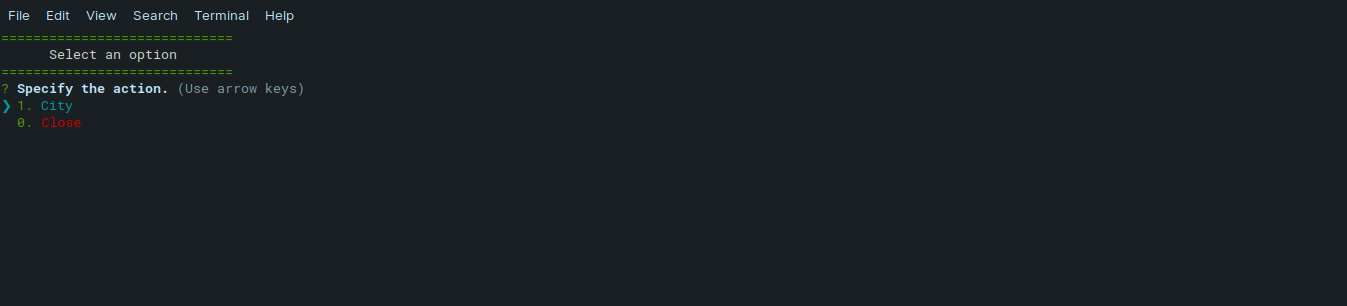
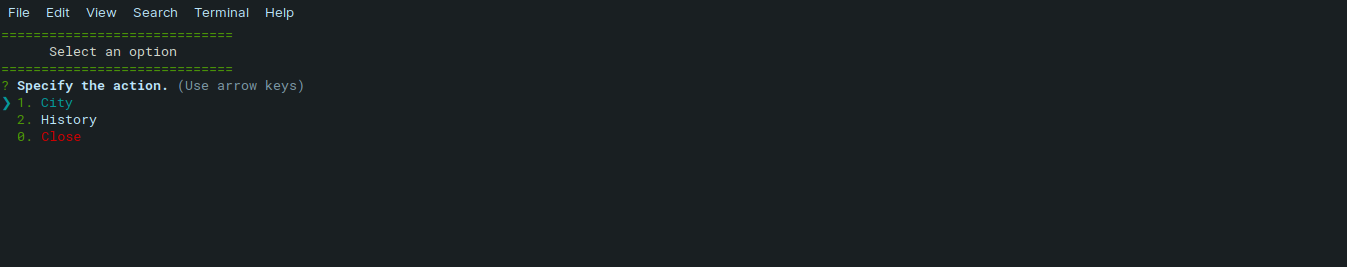
README adited

Changed region(s): [[0.0, 0.1199, 0.2183, 0.5393], [0.0, 0.03, 0.2183, 0.0899]]

diff --git a/README.md b/README.md
@@ -1,4 +1,4 @@
-# Simple terminal app in Node.js
+# Basic terminal app in Node.js
 
 ## Installation
 
@@ -33,8 +33,10 @@ Documentation of each module.
 | colors | [https://www.npmjs.com/package/colors](https://www.npmjs.com/package/colors) |
 | dotenv | [https://www.npmjs.com/package/dotenv](https://www.npmjs.com/package/dotenv) |
 | inquirer | [https://www.npmjs.com/package/inquirer](https://www.npmjs.com/package/inquirer) |
+| fs | [https://www.npmjs.com/package/fs](https://www.npmjs.com/package/fs) |
 
 ## Images
-![](/images/cities.png)
 ![](/images/menu.png)
+![](/images/cities.png)
 ![](/images/result.png)
+![](/images/history.png)
